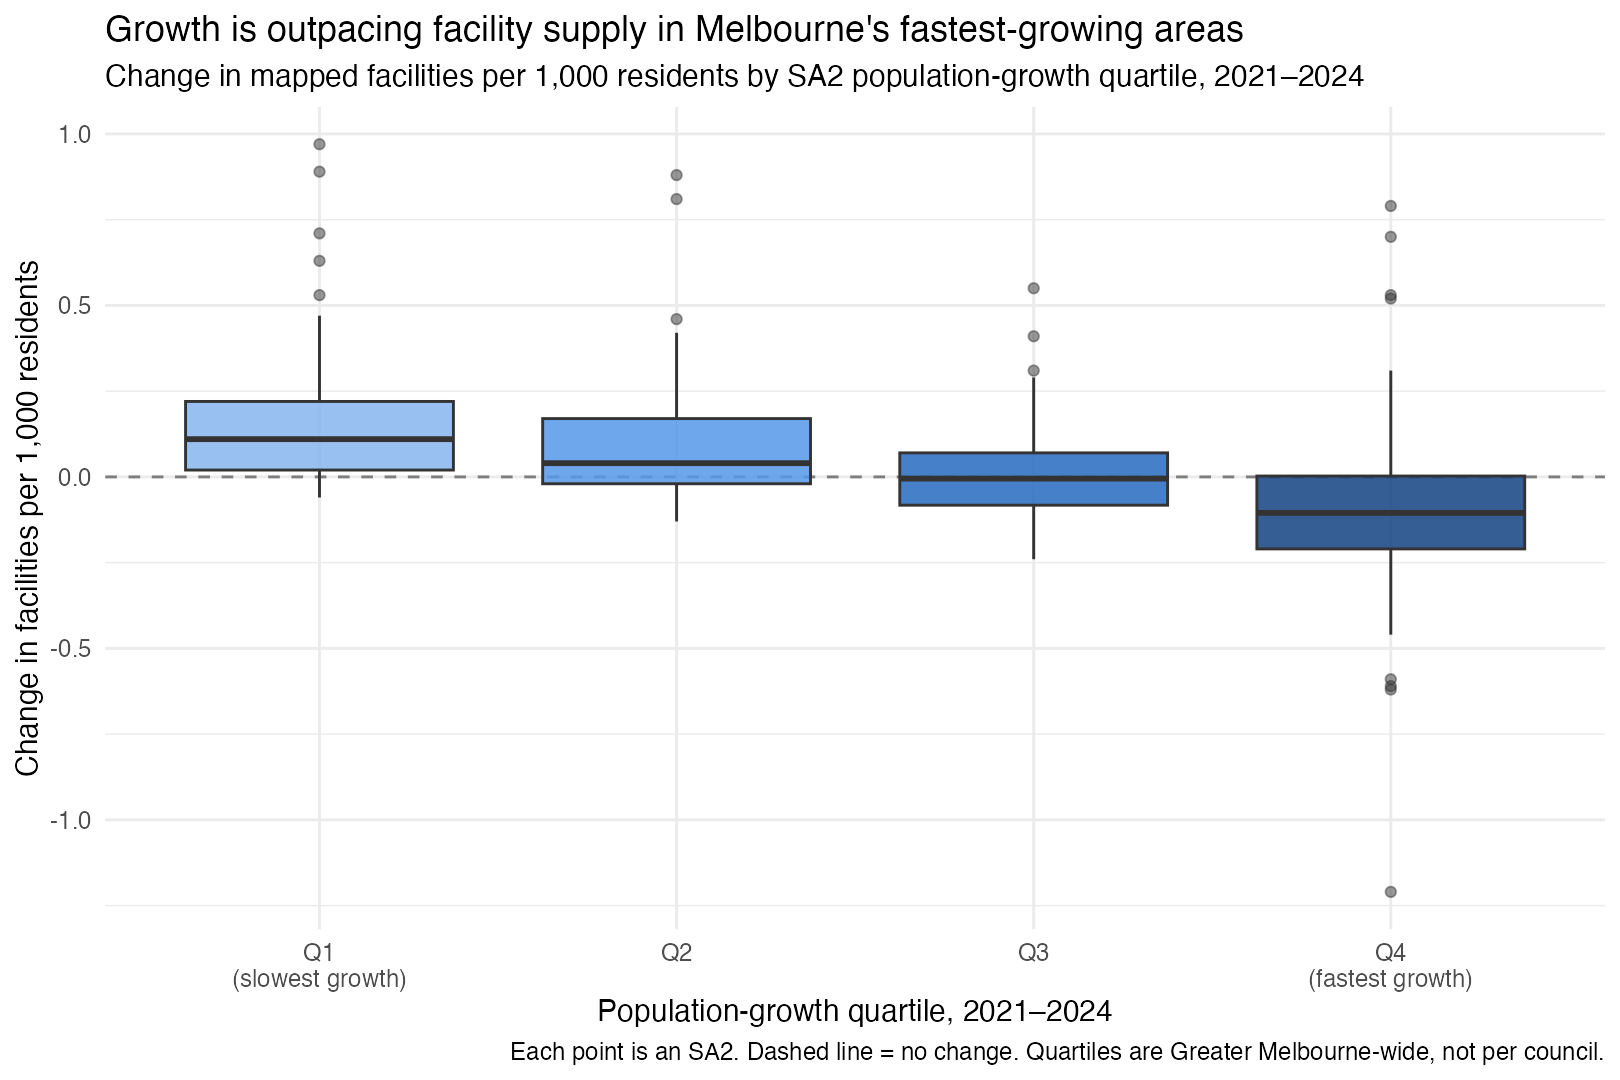
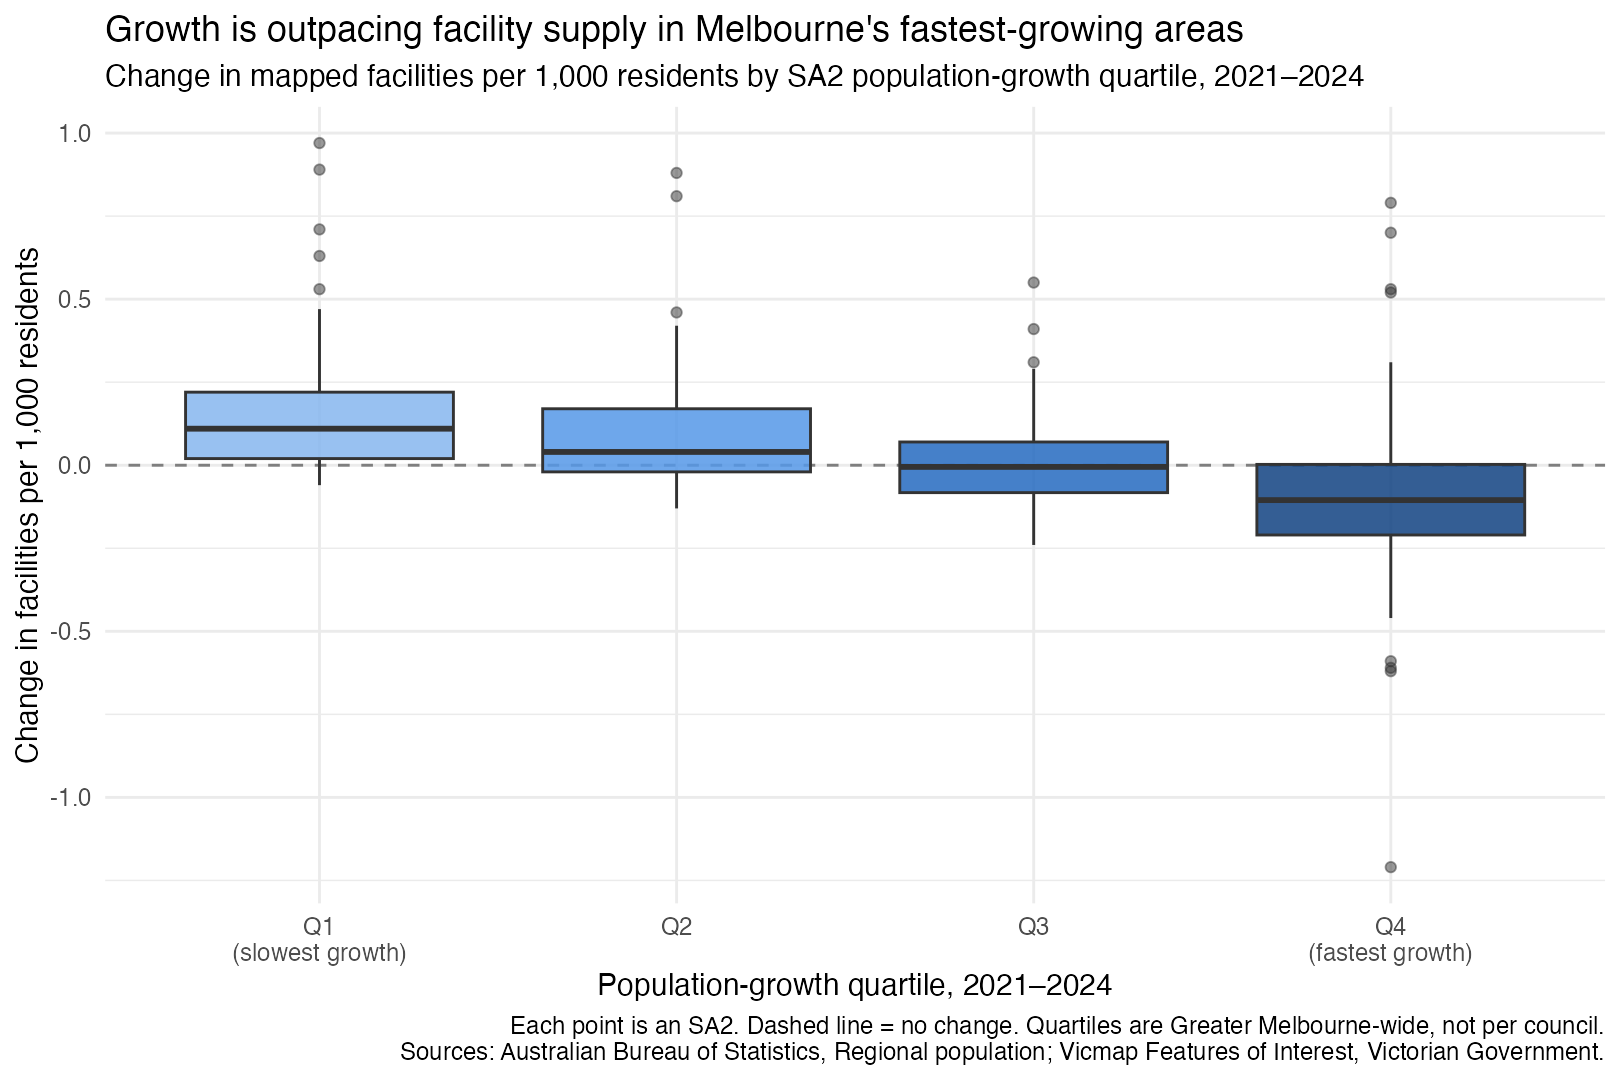
Publish site 2026-09-29 15:22

diff --git a/stories/melbourne/index.html b/stories/melbourne/index.html
@@ -214,6 +214,9 @@ Across Greater Melbourne, the median is about 2.3 facilities per 1,000 residents
 <div id="growth-area-race-tooltip" class="visual-tooltip">
 
 </div>
+<p class="figure-source">
+Source: Australian Bureau of Statistics, Regional population.
+</p>
 <p>By 2024, Melbourne’s five most populous councils are exactly its five largest growth-area councils — Casey, Wyndham, Hume, Whittlesea and Melton — ahead of every established council, including Monash (Greater Melbourne’s largest established council). None of them started there: watch the race to see how recently that changed.</p>
 <p>Colour and position mean different things here: colour is a fixed category (growth area or established, per the Victorian Government’s own designation — see below), while position is purely current population rank. The two don’t always agree — Mitchell is officially a growth area but is currently the third-smallest council in Melbourne (28,415 people, 2024), so you’ll see it coloured orange near the bottom of the chart rather than near the top.</p>
 <div class="qa-step-nav">
@@ -237,10 +240,10 @@ Across Greater Melbourne, the median is about 2.3 facilities per 1,000 residents
 </section>
 </div>
 <script src="https://cdn.jsdelivr.net/npm/d3@7"></script>
-<script src="../../assets/data/melbourne/council-population.js"></script>
-<script src="../../assets/data/lgas/index.js"></script>
-<script src="../../assets/js/growth-area-race.js"></script>
-<script src="../../assets/js/lga-selector.js" defer=""></script>
+<script src="../../assets/data/melbourne/council-population.js?v=20260929"></script>
+<script src="../../assets/data/lgas/index.js?v=20260929"></script>
+<script src="../../assets/js/growth-area-race.js?v=20260929"></script>
+<script src="../../assets/js/lga-selector.js?v=20260929" defer=""></script>
 <div class="data-note">
 <p><strong>Data sources.</strong></p>
 <ul>

diff --git a/stories/lgas/wyndham/index.html b/stories/lgas/wyndham/index.html
@@ -166,6 +166,9 @@ Recreation facilities are furthest behind in Wyndham. There are only 33 mapped h
 <div id="lga-scatter-tooltip" class="visual-tooltip">
 
 </div>
+<p class="figure-source">
+Sources: Australian Bureau of Statistics, Regional population; Vicmap Features of Interest, Victorian Government.
+</p>
 <p>While Wyndham’s overall facility growth has kept pace with its population growth at 17.2%, that number hides a real split within the council. A 2024 snapshot shows established parts of Wyndham had 2.76 mapped facilities per 1,000 residents — new growth areas had only 1.72. And those new growth areas are home to about two-thirds of Wyndham’s population.</p>
 <div class="data-note">
 <p><strong>A note on point size:</strong> it’s set to 2024 population rather than the 2021–2024 growth figure on the x-axis because it’s paired with the y-axis instead — facilities per 1,000 residents is itself calculated using 2024 population, so sizing points by that same year keeps the dot size consistent with the rate it’s plotted against.</p>
@@ -599,8 +602,8 @@ Recreation facilities are furthest behind in Wyndham. There are only 33 mapped h
   </div>
 </footer>
 <script src="https://cdn.jsdelivr.net/npm/d3@7"></script>
-<script src="../../../assets/data/lgas/wyndham/population-facilities.js"></script>
-<script src="../../../assets/js/lga-population-facilities.js"></script>
+<script src="../../../assets/data/lgas/wyndham/population-facilities.js?v=20260929"></script>
+<script src="../../../assets/js/lga-population-facilities.js?v=20260929"></script>
 
 
 

diff --git a/stories/lgas/index.html b/stories/lgas/index.html
@@ -576,8 +576,8 @@ ul.task-list li input[type="checkbox"] {
 </div>
   </div>
 </footer>
-<script src="../../assets/data/lgas/index.js"></script>
-<script src="../../assets/js/lga-selector.js"></script>
+<script src="../../assets/data/lgas/index.js?v=20260929"></script>
+<script src="../../assets/js/lga-selector.js?v=20260929"></script>
 
 
 

diff --git a/assets/site.css b/assets/site.css
@@ -182,3 +182,10 @@ h3 {
 .qa-step-nav a:only-child {
   margin-left: auto;
 }
+
+.figure-source {
+  margin: 0.4rem 0 1.25rem;
+  color: var(--sf-muted);
+  font-size: 0.8rem;
+  text-align: right;
+}
